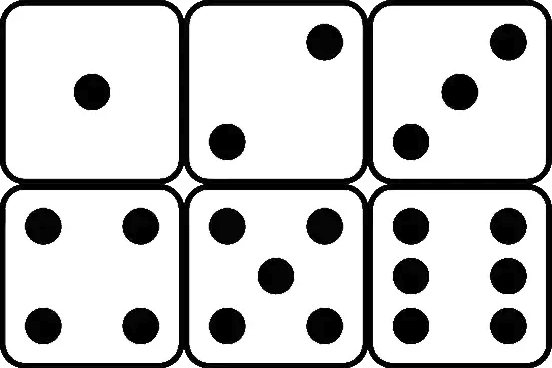
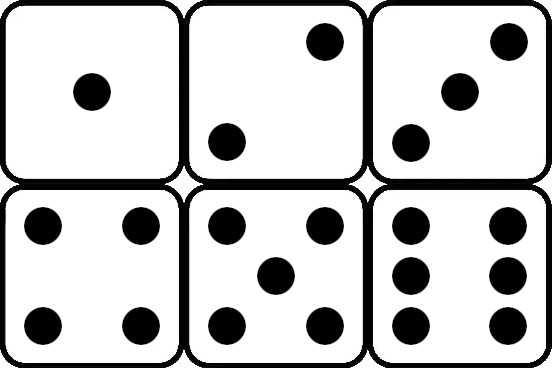
Update dice image

diff --git a/game/game.go b/game/game.go
@@ -33,13 +33,12 @@ import (
 	"github.com/hajimehoshi/ebiten/v2/audio/wav"
 	"github.com/hajimehoshi/ebiten/v2/ebitenutil"
 	"github.com/hajimehoshi/ebiten/v2/inpututil"
-	"github.com/nfnt/resize"
 	"golang.org/x/image/font/opentype"
 	"golang.org/x/text/language"
 )
 
 const (
-	AppVersion           = "v1.4.2"
+	AppVersion           = "v1.4.3"
 	baseButtonHeight     = 54
 	MaxDebug             = 2
 	DefaultServerAddress = "wss://ws.bgammon.org:1338"
@@ -195,6 +194,30 @@ var (
 	cubesImageSize     = 0.0
 )
 
+func resizeImage(source *ebiten.Image, size int) *ebiten.Image {
+	if size == 0 {
+		size = 1
+	}
+	bounds := source.Bounds()
+	if bounds.Dx() == size && bounds.Dy() == size {
+		return source
+	}
+	scale, yScale := float64(size)/float64(bounds.Dx()), float64(size)/float64(bounds.Dy())
+	if yScale < scale {
+		scale = yScale
+	}
+	op := &ebiten.DrawImageOptions{}
+	op.Filter = ebiten.FilterLinear
+	op.GeoM.Scale(scale, scale)
+	dx := float64(size) - float64(bounds.Dx())*scale
+	op.GeoM.Translate(dx/2, 0)
+	dy := float64(size) - float64(bounds.Dy())*scale
+	op.GeoM.Translate(0, dy/2)
+	img := ebiten.NewImage(size, size)
+	img.DrawImage(source, op)
+	return img
+}
+
 func loadImageAssets(width int) {
 	if width == loadedCheckerWidth {
 		return
@@ -206,7 +229,7 @@ func loadImageAssets(width int) {
 	imgCheckerSideLight = loadAsset("asset/image/checker_side_light.png", width)
 	imgCheckerSideDark = loadAsset("asset/image/checker_side_dark.png", width)
 
-	resizeDice := func(img image.Image, scale float64) *ebiten.Image {
+	resizeDice := func(img *ebiten.Image, scale float64) *ebiten.Image {
 		if game == nil {
 			panic("nil game")
 		}
@@ -228,24 +251,24 @@ func loadImageAssets(width int) {
 		} else {
 			cubesImageSize = float64(diceSize) * scale
 		}
-		return ebiten.NewImageFromImage(resize.Resize(uint(float64(diceSize)*scale), 0, img, resize.Lanczos3))
+		return resizeImage(img, int(float64(diceSize)*scale))
 	}
 
 	const size = 184
 	imgDice = ebiten.NewImageFromImage(loadImage("asset/image/dice.png"))
-	imgDice1 = resizeDice(imgDice.SubImage(image.Rect(0, 0, size*1, size*1)), 1)
-	imgDice2 = resizeDice(imgDice.SubImage(image.Rect(size*1, 0, size*2, size*1)), 1)
-	imgDice3 = resizeDice(imgDice.SubImage(image.Rect(size*2, 0, size*3, size*1)), 1)
-	imgDice4 = resizeDice(imgDice.SubImage(image.Rect(0, size*1, size*1, size*2)), 1)
-	imgDice5 = resizeDice(imgDice.SubImage(image.Rect(size*1, size*1, size*2, size*2)), 1)
-	imgDice6 = resizeDice(imgDice.SubImage(image.Rect(size*2, size*1, size*3, size*2)), 1)
+	imgDice1 = resizeDice(imgDice.SubImage(image.Rect(0, 0, size*1, size*1)).(*ebiten.Image), 1)
+	imgDice2 = resizeDice(imgDice.SubImage(image.Rect(size*1, 0, size*2, size*1)).(*ebiten.Image), 1)
+	imgDice3 = resizeDice(imgDice.SubImage(image.Rect(size*2, 0, size*3, size*1)).(*ebiten.Image), 1)
+	imgDice4 = resizeDice(imgDice.SubImage(image.Rect(0, size*1, size*1, size*2)).(*ebiten.Image), 1)
+	imgDice5 = resizeDice(imgDice.SubImage(image.Rect(size*1, size*1, size*2, size*2)).(*ebiten.Image), 1)
+	imgDice6 = resizeDice(imgDice.SubImage(image.Rect(size*2, size*1, size*3, size*2)).(*ebiten.Image), 1)
 	imgCubes = ebiten.NewImageFromImage(loadImage("asset/image/cubes.png"))
-	imgCubes2 = resizeDice(imgCubes.SubImage(image.Rect(0, 0, size*1, size*1)), 0.6)
-	imgCubes4 = resizeDice(imgCubes.SubImage(image.Rect(size*1, 0, size*2, size*1)), 0.6)
-	imgCubes8 = resizeDice(imgCubes.SubImage(image.Rect(size*2, 0, size*3, size*1)), 0.6)
-	imgCubes16 = resizeDice(imgCubes.SubImage(image.Rect(0, size*1, size*1, size*2)), 0.6)
-	imgCubes32 = resizeDice(imgCubes.SubImage(image.Rect(size*1, size*1, size*2, size*2)), 0.6)
-	imgCubes64 = resizeDice(imgCubes.SubImage(image.Rect(size*2, size*1, size*3, size*2)), 0.6)
+	imgCubes2 = resizeDice(imgCubes.SubImage(image.Rect(0, 0, size*1, size*1)).(*ebiten.Image), 0.6)
+	imgCubes4 = resizeDice(imgCubes.SubImage(image.Rect(size*1, 0, size*2, size*1)).(*ebiten.Image), 0.6)
+	imgCubes8 = resizeDice(imgCubes.SubImage(image.Rect(size*2, 0, size*3, size*1)).(*ebiten.Image), 0.6)
+	imgCubes16 = resizeDice(imgCubes.SubImage(image.Rect(0, size*1, size*1, size*2)).(*ebiten.Image), 0.6)
+	imgCubes32 = resizeDice(imgCubes.SubImage(image.Rect(size*1, size*1, size*2, size*2)).(*ebiten.Image), 0.6)
+	imgCubes64 = resizeDice(imgCubes.SubImage(image.Rect(size*2, size*1, size*3, size*2)).(*ebiten.Image), 0.6)
 
 	imgProfileBirthday1 = ebiten.NewImageFromImage(loadImage("asset/image/profile_birthday_1.png"))
 
@@ -306,7 +329,7 @@ func loadAudioAssets() {
 	randomizeByteSlice(homeMultiSounds)
 }
 
-func loadImage(assetPath string) image.Image {
+func loadImage(assetPath string) *ebiten.Image {
 	f, err := assetFS.Open(assetPath)
 	if err != nil {
 		panic(err)
@@ -317,17 +340,15 @@ func loadImage(assetPath string) image.Image {
 		log.Fatal(err)
 	}
 
-	return img
+	return ebiten.NewImageFromImage(img)
 }
 
 func loadAsset(assetPath string, width int) *ebiten.Image {
 	img := loadImage(assetPath)
-
 	if width > 0 {
-		imgResized := resize.Resize(uint(width), 0, img, resize.Lanczos3)
-		return ebiten.NewImageFromImage(imgResized)
+		return resizeImage(img, width)
 	}
-	return ebiten.NewImageFromImage(img)
+	return img
 }
 
 func LoadBytes(p string) []byte {

diff --git a/game/board.go b/game/board.go
@@ -1382,25 +1382,24 @@ func (b *board) Draw(screen *ebiten.Image) {
 	}
 
 	dividerHeight := float64(etk.Scale(15))
-
-	r := b.spaceRects[bgammon.SpaceHomePlayer]
-	checkerY := float64(b.y+int(b.verticalBorderSize)+r[1]+r[3]) + 3
 	checkerHeight := (b.spaceWidth + b.overlapSize*4 - dividerHeight*2) / 15
+
+	checkerY := float64(b.y+b.h-int(b.verticalBorderSize)) - checkerHeight - float64(etk.Scale(4))
 	checkers := len(b.spaceSprites[bgammon.SpaceHomePlayer])
 	var checkerOffset float64
 	for i := 0; i < checkers; i++ {
 		checkerOffset = 0
 		if i >= 10 {
-			checkerOffset = dividerHeight * 2
+			checkerOffset = dividerHeight*2 - float64(etk.Scale(2))
 		} else if i >= 5 {
-			checkerOffset = dividerHeight
+			checkerOffset = dividerHeight - float64(etk.Scale(2))
 		} else {
 			checkerOffset = 0
 		}
 		b.drawChecker(screen, imgCheckerSideLight, float64(b.x+b.w)-b.spaceWidth, checkerY-checkerHeight*float64(i+1)-checkerOffset, b.flipBoard, true)
 	}
 
-	checkerY = float64(b.y+int(b.verticalBorderSize)) + 1
+	checkerY = float64(b.y+int(b.verticalBorderSize)) - checkerHeight - 3
 	checkers = len(b.spaceSprites[bgammon.SpaceHomeOpponent])
 	for i := 0; i < checkers; i++ {
 		checkerOffset = 0
